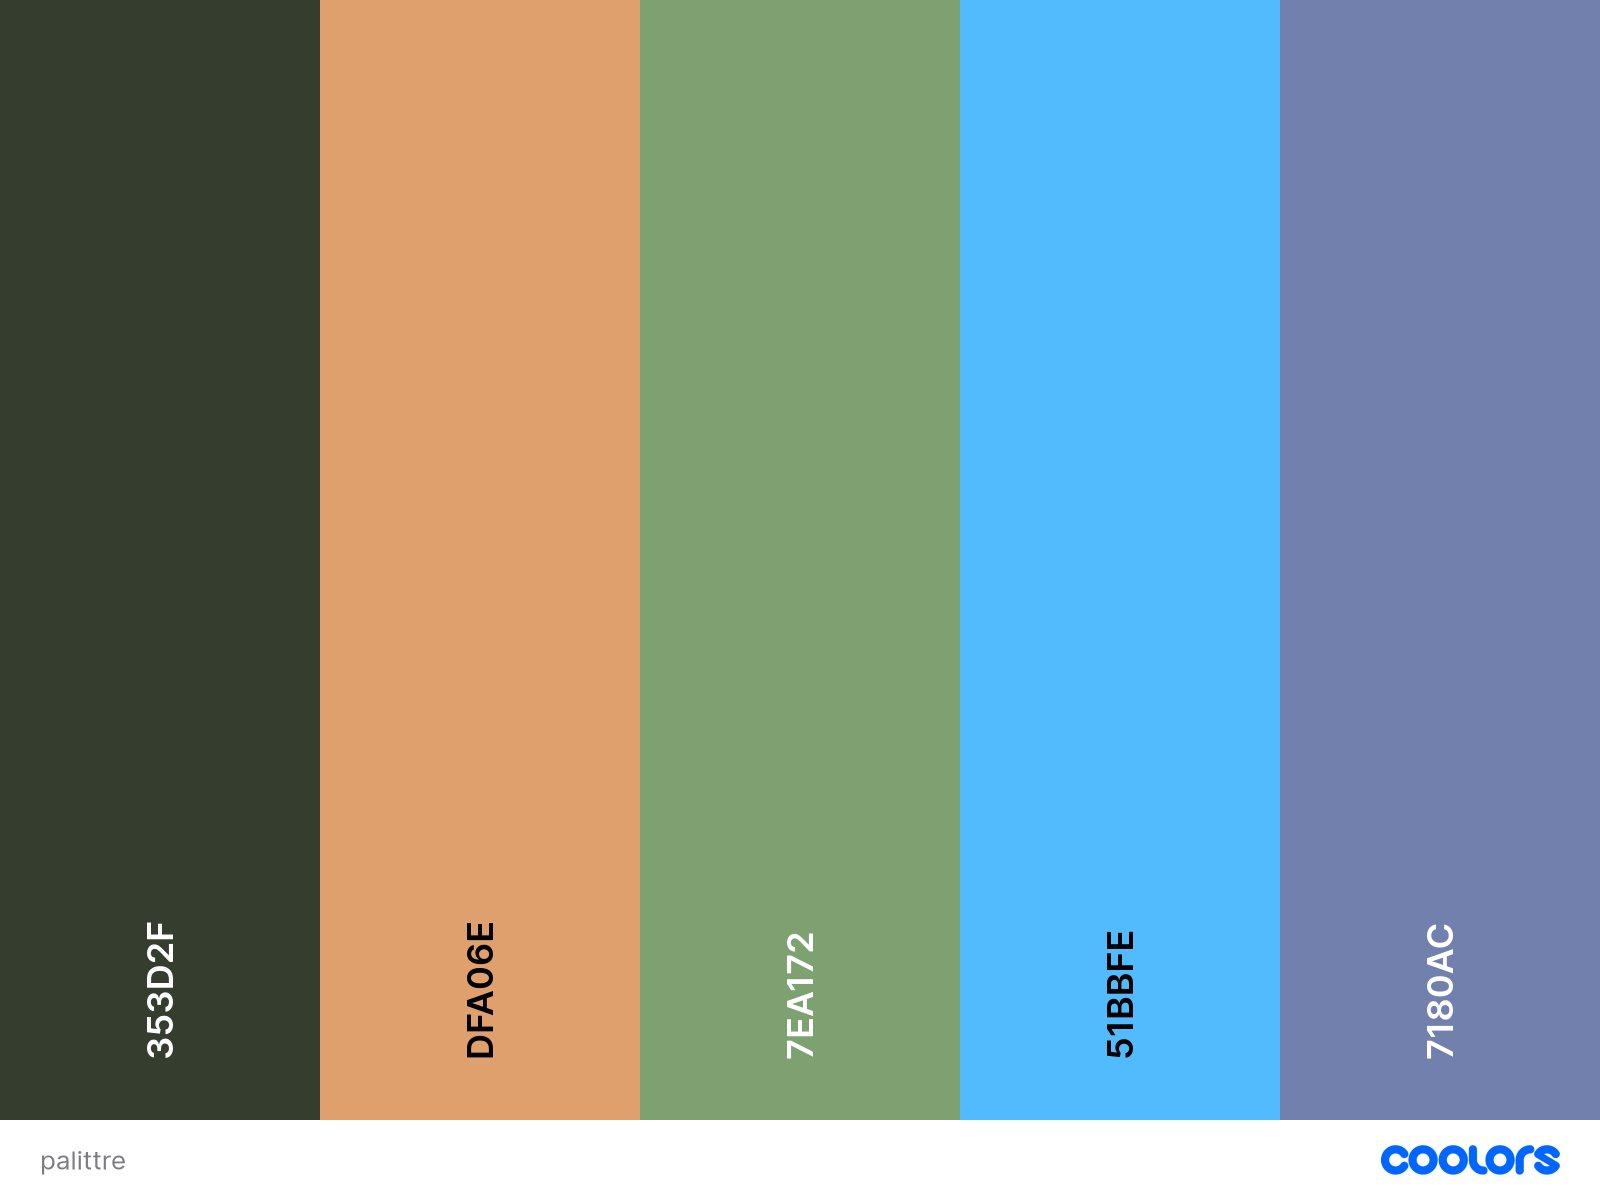
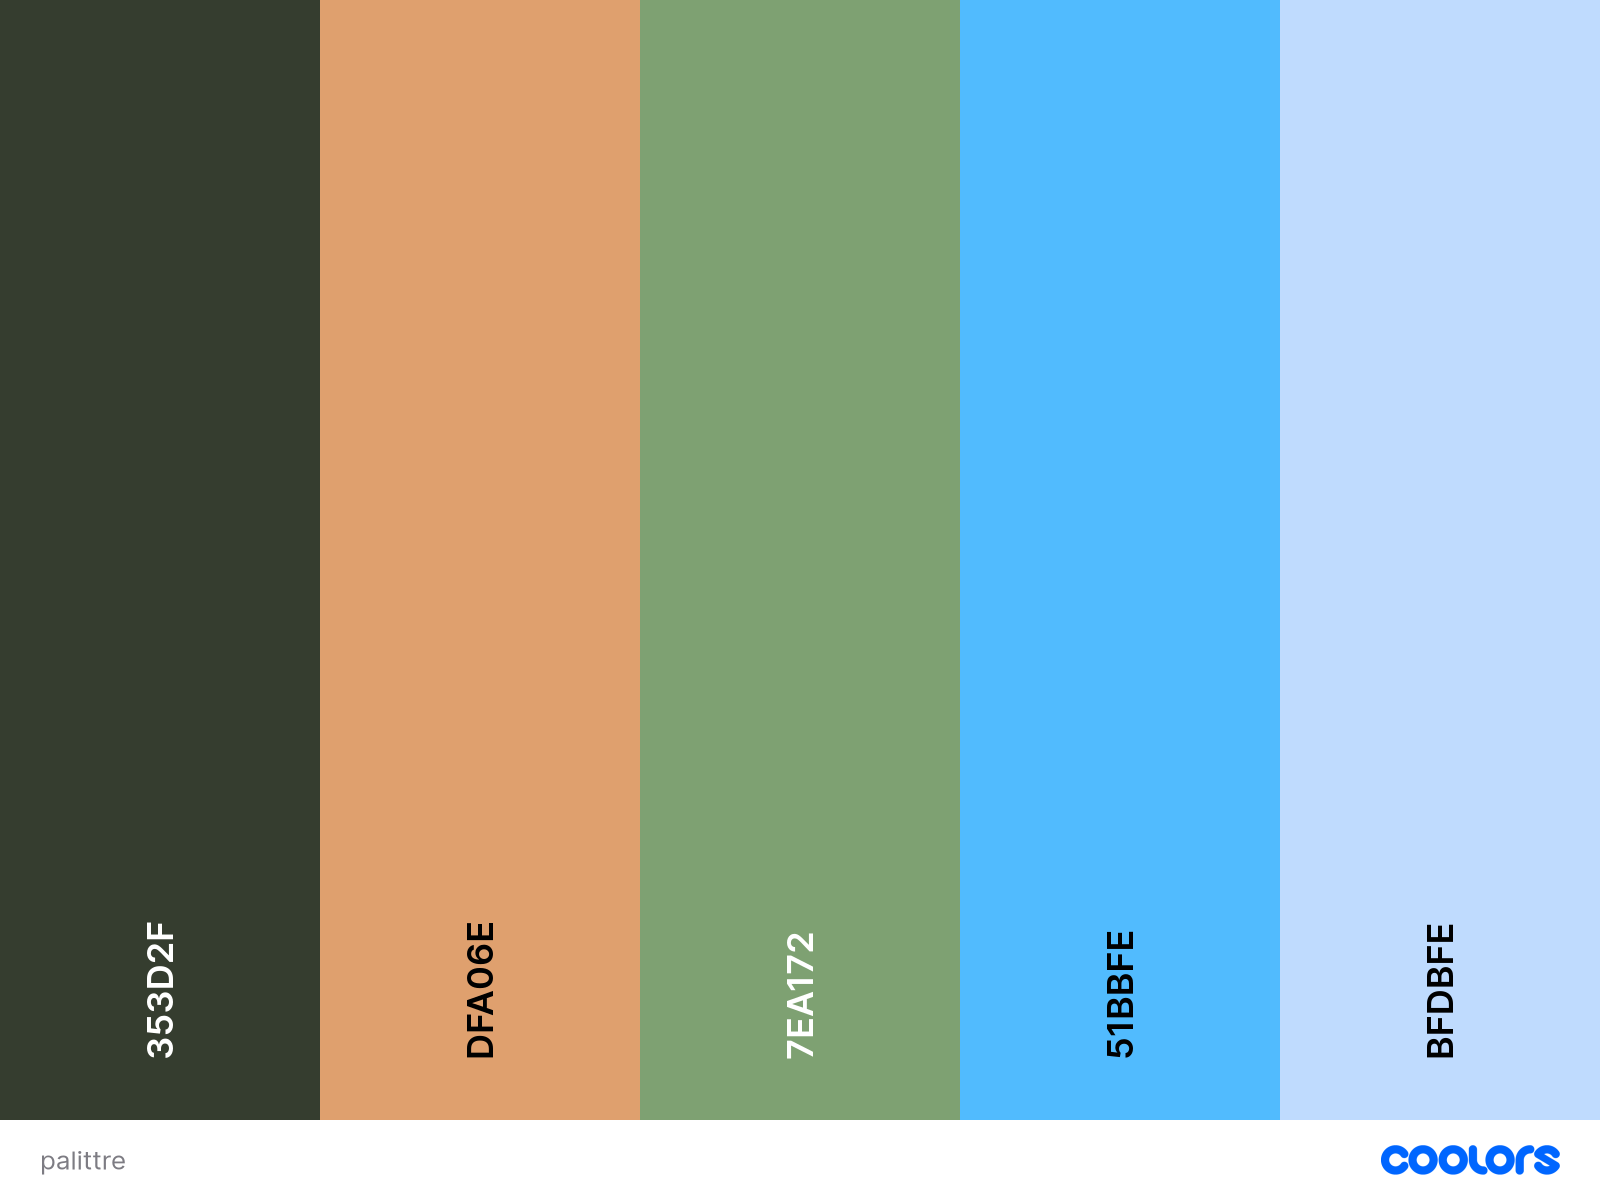
fixed the contrast

Changed region(s): [[0.7812, 0.0, 1.0, 0.9558]]

diff --git a/indexStyle.css b/indexStyle.css
@@ -21,7 +21,7 @@ body {
     margin-right: auto;
     width: 97%;
     height: 11%;
-    background-color: #7180AC;
+    background-color: #BFDBFE;
     margin-top: -15px;
     border-radius: 15px 35px;
     -webkit-box-shadow: 4px 8px 27px -1px #000000;
